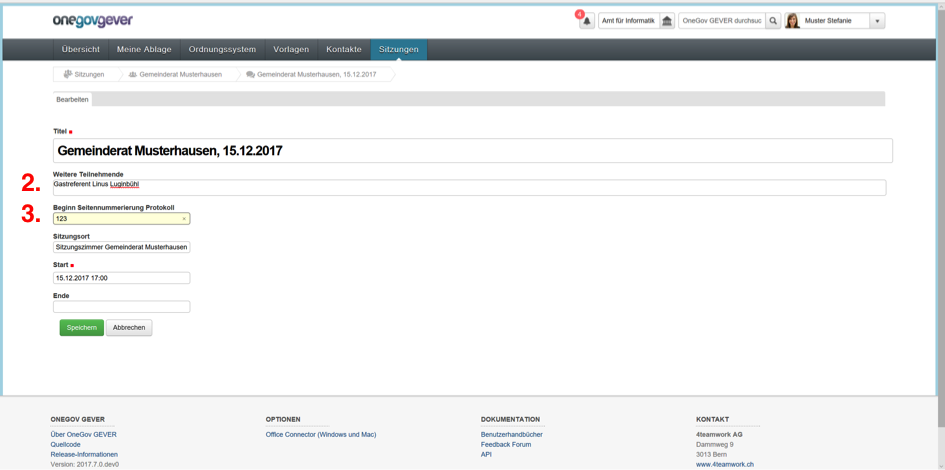
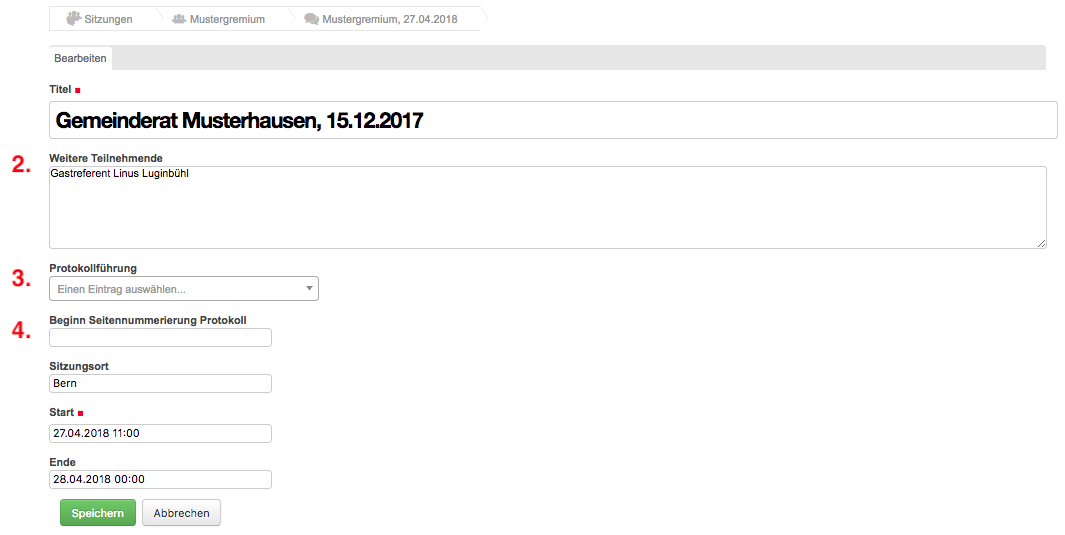
Update SPV änderungen protokollführung

Changed region(s): [[0.0, 0.0, 1.0, 1.0]]

diff --git a/docs/public/user-manual/spv/sitzung-vorbereiten.rst b/docs/public/user-manual/spv/sitzung-vorbereiten.rst
@@ -25,7 +25,12 @@ Ansicht einer vorbereiteten Sitzung:
 
 1. Die Ansicht der Anhänge pro Antrag lässt sich ein- und ausklappen.
 2. Über «Bearbeiten» können weitere Teilnehmende (Gäste) hinzugefügt werden.
-3. Der Beginn der Seitennummerierung kann hier festgelegt werden.
+3. In diesem Feld kann die Protokollführende Person ausgewählt werden.
+4. Der Beginn der Seitennummerierung kann hier festgelegt werden.
+
+Mitglieder erfassen und Gremium zuweisen
+~~~~~~~~~~~~~~~~~~~~~~~~~~~~~~~~~~~~~~~~~
+
 
 .. |img-spvupdate-20| image:: ../img/media/img-spvupdate-20.png
 .. |img-spvupdate-21| image:: ../img/media/img-spvupdate-21.png

diff --git a/docs/public/user-manual/spv/sitzung-durchfuehren.rst b/docs/public/user-manual/spv/sitzung-durchfuehren.rst
@@ -3,8 +3,7 @@ Sitzung durchführen
 -------------------
 Unter dem Reiter «Teilnehmende» sind die dem Gremium zugewiesenen Mitglieder
 aufgeführt. An der Sitzung können die abwesenden Mitglieder entsprechend
-vermerkt werden (ankreuzen). Ebenfalls kann die Rollen Protokollführung und
-Vorsitz hinterlegt werden.
+vermerkt werden (ankreuzen). Ebenfalls kann die Rolle Vorsitz hinterlegt werden.
 
 |img-spvupdate-24|
 
